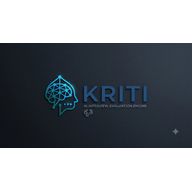
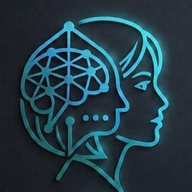
updated fevicon

diff --git a/frontend/index.html b/frontend/index.html
@@ -2,10 +2,12 @@
 <html lang="en">
   <head>
     <meta charset="UTF-8" />
-    <link rel="icon" href="/favicon.ico?v=3" sizes="any" />
-    <link rel="icon" type="image/png" sizes="32x32" href="/favicon-32x32.png?v=3" />
-    <link rel="apple-touch-icon" sizes="180x180" href="/apple-touch-icon.png?v=3" />
-    <link rel="manifest" href="/site.webmanifest?v=3" />
+    <link rel="icon" href="/favicon.ico?v=4" sizes="any" />
+    <link rel="icon" type="image/png" sizes="32x32" href="/favicon-32x32.png?v=4" />
+    <link rel="icon" type="image/png" sizes="16x16" href="/favicon-16x16.png?v=4" />
+    <link rel="apple-touch-icon" sizes="180x180" href="/apple-touch-icon.png?v=4" />
+    <link rel="manifest" href="/site.webmanifest?v=4" />
+    <meta name="theme-color" content="#12161f" />
     <meta name="viewport" content="width=device-width, initial-scale=1.0" />
     <title>Kriti - AI Interview Platform</title>
   </head>

diff --git a/backend/src/index.js b/backend/src/index.js
@@ -41,7 +41,13 @@ app.use('/api/interviews', interviewRoutes);
 
 // ✅ Serve frontend build in production
 if (process.env.NODE_ENV === 'production') {
-  app.use(express.static(path.join(__dirname, '../../frontend/dist')));
+  const distPath = path.join(__dirname, '../../frontend/dist');
+  const publicPath = path.join(__dirname, '../../frontend/public');
+  app.use(express.static(distPath));
+  app.use(express.static(publicPath));
+
+  // Ensure missing icons or manifest never return index.html from SPA catch-all
+  app.get(/^\/(?:favicon\.ico|favicon-.*\.png|apple-touch-icon\.png|icon-.*\.png|site\.webmanifest)$/, (_req, res) => res.status(404).end());
 
   app.get('*', (req, res) => {
     res.sendFile(path.join(__dirname, '../../frontend/dist/index.html'));
